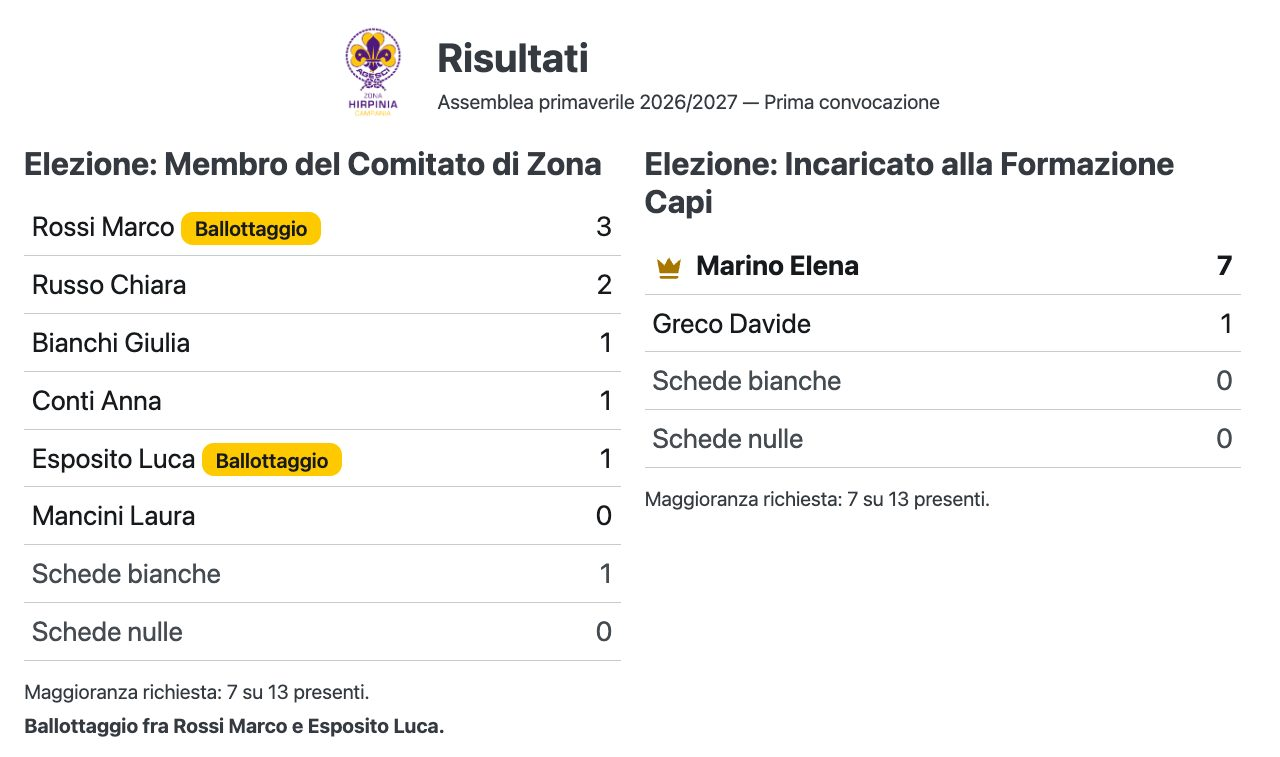
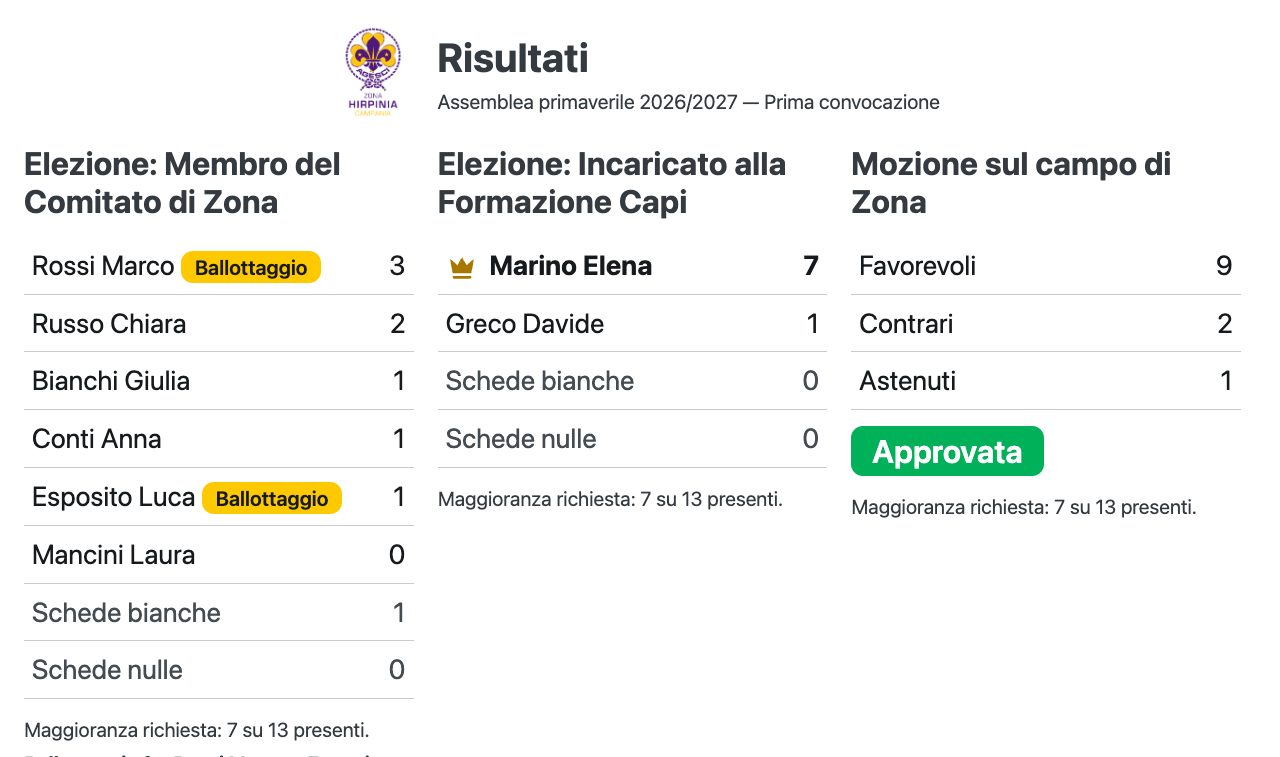
Proiettore: risultati anche delle votazioni non elettive; revoca con schede nulle
Dall'elenco delle votazioni si proietta qualsiasi votazione chiusa, non più
solo elezioni e ballottaggi: per le votazioni sì/no favorevoli, contrari,
astenuti, maggioranza richiesta ed esito (con l'esito palese solo «Approvata a
voto palese», senza numeri). Anche la revoca: segreto è il voto, non il
risultato.

Nella revoca su carta si registrano anche le schede nulle, e le schede bianche
contano come astenuti («Astenuti e schede bianche»). Le voci per canale
vengono da un solo punto, votazioni.voci(), usato da form e
registra_risultati(); la frase dell'esito e il verbale riportano le nulle.

diff --git a/templates/assemblee/proiettore_risultati.html b/templates/assemblee/proiettore_risultati.html
@@ -1,7 +1,9 @@
 {% load static bootstrap_icons %}
 {% comment %}
-Risultati di una o più elezioni chiuse da proiettare in sala, una per colonna
-(al massimo tre), con una corona accanto agli eletti. Pagina statica, senza
+Risultati di una o più votazioni chiuse da proiettare in sala, una per colonna
+(al massimo tre): elezioni e ballottaggi con una corona accanto agli eletti,
+le altre (revoca compresa: segreto è il voto, non il risultato) con
+favorevoli, contrari, astenuti ed esito; la revoca anche con le schede nulle. Pagina statica, senza
 aggiornamento automatico: i risultati sono definitivi. Autonoma come
 assemblee/proiettore.html.
 {% endcomment %}
@@ -27,6 +29,22 @@ assemblee/proiettore.html.
       {% for r in risultati %}
         <section class="{% if risultati|length == 1 %}lg:col-8 mx-auto{% elif risultati|length == 2 %}md:col-6{% else %}lg:col-4{% endif %}">
           <h2 class="fs-2xl mb-5">{{ r.votazione.oggetto }}</h2>
+          {% if not r.elezione %}
+            {% if r.palese %}
+              <p class="fs-xl mb-5">Nessun contrario né astenuto.</p>
+            {% else %}
+              <table class="table fs-xl">
+                <tbody>
+                  <tr><td>Favorevoli</td><td class="text-end">{{ r.favorevoli }}</td></tr>
+                  <tr><td>Contrari</td><td class="text-end">{{ r.contrari }}</td></tr>
+                  <tr><td>{% if r.revoca %}Astenuti e schede bianche{% else %}Astenuti{% endif %}</td><td class="text-end">{{ r.astenuti }}</td></tr>
+                  {% if r.revoca %}<tr><td class="fg-2">Schede nulle</td><td class="text-end fg-2">{{ r.nulle }}</td></tr>{% endif %}
+                </tbody>
+              </table>
+            {% endif %}
+            <p class="mb-5"><span class="badge {% if r.approvata %}theme-success{% else %}theme-danger{% endif %} fs-2xl">{% if r.approvata %}Approvata{% if r.palese %} a voto palese{% endif %}{% else %}Respinta{% endif %}</span></p>
+            <p class="fs-lg mb-1">Maggioranza richiesta: {{ r.soglia }} su {{ r.base }} {{ r.base_nome }}.</p>
+          {% else %}
           <table class="table fs-xl">
             <tbody>
               {% for c in r.candidati %}
@@ -41,6 +59,7 @@ assemblee/proiettore.html.
           </table>
           <p class="fs-lg mb-1">Maggioranza richiesta: {{ r.soglia }} su {{ r.base }} {{ r.base_nome }}.</p>
           {% if r.vacanti %}<p class="fs-lg fw-bold mb-0">{{ r.vacanti|capfirst }}.</p>{% endif %}
+          {% endif %}
         </section>
       {% endfor %}
     </div>

diff --git a/templates/assemblee/votazioni.html b/templates/assemblee/votazioni.html
@@ -55,7 +55,7 @@
   {% if proiettabili %}
     <form method="get" action="{% url 'assemblee:proiettore_risultati' assemblea.pk seduta.pk %}" target="_blank" id="form-proietta" class="d-flex flex-wrap align-items-center gap-3 mb-5">
       <button type="submit" class="btn-outline theme-primary">{% bs_icon "display" %} Proietta i risultati</button>
-      <span class="fg-2">Spunta fino a {{ max_proiettati }} elezioni chiuse: si aprono in una pagina da proiettare, una per colonna.</span>
+      <span class="fg-2">Spunta fino a {{ max_proiettati }} votazioni chiuse: si aprono in una pagina da proiettare, una per colonna.</span>
     </form>
   {% endif %}
 

diff --git a/apps/assemblee/tests/test_votazioni.py b/apps/assemblee/tests/test_votazioni.py
@@ -9,6 +9,7 @@ from django.core.exceptions import PermissionDenied, ValidationError
 from apps.accounts.models import Ruolo, StatoUtente, TipoUtente, Utente
 from apps.anagrafica.models import Capo, CensimentoCapo
 from apps.assemblee import elenco, sedute, votazioni
+from apps.assemblee.forms import form_risultati
 from apps.assemblee.models import (
     Assemblea,
     CanaleVoto,
@@ -316,16 +317,59 @@ class TestVerificaDelQuorum:
         assert _palese(v, segreteria, 2, 2, 0).soglia == 3
 
 
+class TestRevoca:
+    def test_schede_nulle_solo_su_carta(self, seduta, segreteria):
+        v = _votazione(seduta, TipoVotazione.REVOCA)
+        assert votazioni.voci(v, CanaleVoto.CARTA) == (
+            "favorevoli",
+            "contrari",
+            "astenuti",
+            "nulle",
+        )
+        assert votazioni.voci(v, CanaleVoto.APP) == ("favorevoli", "contrari", "astenuti")
+        campi = form_risultati(v, votazioni.canali(v)).fields
+        assert "CARTA_nulle" in campi and "APP_nulle" not in campi
+        assert campi["CARTA_astenuti"].label == "Astenuti e schede bianche (carta)"
+        votazioni.registra_risultati(
+            v,
+            segreteria,
+            per_canale={
+                CanaleVoto.APP.value: {"favorevoli": 60, "nulle": 9},
+                CanaleVoto.CARTA.value: {"favorevoli": 40, "astenuti": 5, "nulle": 3},
+            },
+        )
+        totali = votazioni.totali(v)
+        # In app non ci sono schede nulle: quelle passate si ignorano.
+        assert (totali.favorevoli, totali.astenuti, totali.nulle) == (100, 5, 3)
+        assert "3 schede nulle" in votazioni.frase_esito(v)
+
+    def test_le_nulle_contano_nei_voti_espressi(self, seduta, segreteria):
+        v = _votazione(seduta, TipoVotazione.REVOCA, presenti=10)
+        with pytest.raises(ValidationError, match="superano i presenti"):
+            votazioni.registra_risultati(
+                v,
+                segreteria,
+                per_canale={CanaleVoto.CARTA.value: {"favorevoli": 8, "nulle": 3}},
+            )
+
+
 class TestRisultatiDaProiettare:
-    def test_solo_elezioni_chiuse_al_massimo_tre(self, seduta, segreteria):
+    def test_solo_chiuse_al_massimo_tre(self, seduta, segreteria):
         chiuse = []
-        for nome in ("Anna", "Bruno", "Carla", "Dario"):
+        for nome in ("Anna", "Bruno"):
             v = _votazione(seduta, TipoVotazione.ELEZIONE, candidati=[nome, "Zeta"])
             _elezione(v, segreteria, {nome: 70, "Zeta": 40})
             chiuse.append(v)
         aperta = _votazione(seduta, TipoVotazione.ELEZIONE, candidati=["Ugo"])
-        mozione = _palese(_votazione(seduta, TipoVotazione.MOZIONE), segreteria, 70, 10, 0)
-        assert mozione.approvata
+        mozione = _votazione(seduta, TipoVotazione.MOZIONE)
+        assert _palese(mozione, segreteria, 70, 10, 0).approvata
+        chiuse.append(mozione)
+        # Segreto è il voto, non il risultato: anche la revoca si proietta.
+        revoca = _votazione(seduta, TipoVotazione.REVOCA)
+        votazioni.registra_risultati(
+            revoca, segreteria, per_canale={CanaleVoto.CARTA.value: {"favorevoli": 100}}
+        )
+        chiuse.append(revoca)
         assert votazioni.proiettabili(seduta) == chiuse
         assert votazioni.da_proiettare(seduta, [chiuse[0].pk, chiuse[2].pk]) == [
             chiuse[0],
@@ -353,6 +397,37 @@ class TestRisultatiDaProiettare:
         _elezione(eletta, segreteria, {"Dora": 70, "Ezio": 40})
         pagina = client.get(f"{base}/proiettore/risultati/?v={v.pk}&v={eletta.pk}").content.decode()
         assert pagina.count('id="mdi-crown"') == 1 and "Dora" in pagina
+        # Votazioni per alzata di mano: numeri ed esito, con l'esito palese solo l'esito.
+        respinta = _votazione(seduta, TipoVotazione.MOZIONE)
+        _palese(respinta, segreteria, 40, 50, 7)
+        palese = _votazione(seduta, TipoVotazione.RACCOMANDAZIONE)
+        votazioni.registra_palese(palese, segreteria)
+        assert votazioni.risultati_per_proiettore(respinta)["contrari"] == 50
+        pagina = client.get(
+            f"{base}/proiettore/risultati/?v={respinta.pk}&v={palese.pk}"
+        ).content.decode()
+        assert "Respinta" in pagina and "Approvata a voto palese" in pagina
+        assert ">50<" in pagina and ">40<" in pagina and ">7<" in pagina
+        assert "Maggioranza richiesta: 61 su 120 presenti" in pagina
+        assert ">120<" not in pagina
+        revoca = _votazione(seduta, TipoVotazione.REVOCA)
+        votazioni.registra_risultati(
+            revoca,
+            segreteria,
+            per_canale={
+                CanaleVoto.APP.value: {"favorevoli": 80, "contrari": 5},
+                CanaleVoto.CARTA.value: {
+                    "favorevoli": 15,
+                    "contrari": 3,
+                    "astenuti": 2,
+                    "nulle": 4,
+                },
+            },
+        )
+        pagina = client.get(f"{base}/proiettore/risultati/?v={revoca.pk}").content.decode()
+        assert ">95<" in pagina and ">8<" in pagina and "Approvata" in pagina
+        assert "Astenuti e schede bianche" in pagina and ">4<" in pagina
+        assert "Maggioranza richiesta: 94 su 186 aventi diritto" in pagina
         # Una votazione non proiettabile riporta all'elenco.
         assert client.get(f"{base}/proiettore/risultati/?v=999999").status_code == 302
 

diff --git a/apps/assemblee/votazioni.py b/apps/assemblee/votazioni.py
@@ -59,6 +59,18 @@ def canali(votazione: Votazione) -> list[str]:
     return [CanaleVoto.PALESE]
 
 
+def voci(votazione: Votazione, canale: str) -> tuple[str, ...]:
+    """Voci dei risultati di un canale, per il form e per `registra_risultati()`.
+    Nelle elezioni schede bianche e nulle (i voti stanno sui candidati); nelle
+    votazioni sì/no favorevoli, contrari e astenuti, più le schede nulle nella
+    revoca su carta. Nella revoca le schede bianche contano come astenuti."""
+    if votazione.tipo in (TipoVotazione.ELEZIONE, TipoVotazione.BALLOTTAGGIO):
+        return ("bianche", "nulle")
+    if votazione.tipo == TipoVotazione.REVOCA and canale == CanaleVoto.CARTA:
+        return ("favorevoli", "contrari", "astenuti", "nulle")
+    return ("favorevoli", "contrari", "astenuti")
+
+
 @dataclass(frozen=True)
 class Totali:
     favorevoli: int = 0
@@ -378,10 +390,7 @@ def registra_risultati(
         dati = per_canale.get(canale, {})
         if dall_urna is not None and canale == CanaleVoto.APP:
             dati = {"bianche": dall_urna.bianche, "nulle": dall_urna.nulle}
-        if elezione:
-            dati = {"bianche": dati.get("bianche", 0), "nulle": dati.get("nulle", 0)}
-        else:
-            dati = {k: dati.get(k, 0) for k in ("favorevoli", "contrari", "astenuti")}
+        dati = {k: dati.get(k, 0) for k in voci(votazione, canale)}
         if any(v < 0 for v in dati.values()):
             raise ValidationError("I voti non possono essere negativi.")
         RisultatoCanale.objects.create(votazione=votazione, canale=canale, **dati)
@@ -526,6 +535,7 @@ def frase_esito(votazione: Votazione) -> str:
                 _voti(t.contrari, "contrario", "contrari"),
                 _voti(t.astenuti, "astenuto", "astenuti"),
             ]
+            + ([_voti(t.nulle, "scheda nulla", "schede nulle")] if t.nulle else [])
         )
         verbo = "approvata" if e.approvata else "respinta"
         return f"{verbo.capitalize()} con {dettaglio} ({base})."
@@ -558,41 +568,56 @@ def _frase_vacanti(e: Esito) -> str:
 
 # --- Risultati da proiettare --------------------------------------------------------
 #
-# Vista proiettore dei risultati: elezioni e ballottaggi chiusi della seduta,
-# al massimo tre affiancati (una colonna ciascuno). Esito e soglie restano in
-# esito(): qui solo la forma dei dati per la pagina.
+# Vista proiettore dei risultati: votazioni chiuse della seduta, al massimo tre
+# affiancate (una colonna ciascuna). Anche quelle a scrutinio segreto: segreto
+# è il voto, non il risultato. Esito e soglie restano in esito(): qui solo la
+# forma dei dati per la pagina.
 
 MAX_RISULTATI_PROIETTATI = 3
-TIPI_PROIETTABILI = (TipoVotazione.ELEZIONE, TipoVotazione.BALLOTTAGGIO)
 
 
 def proiettabili(seduta: Seduta) -> list[Votazione]:
-    return list(
-        seduta.votazioni.filter(chiusa_il__isnull=False, tipo__in=TIPI_PROIETTABILI).order_by(
-            "aperta_il"
-        )
-    )
+    return list(seduta.votazioni.filter(chiusa_il__isnull=False).order_by("aperta_il"))
 
 
 def da_proiettare(seduta: Seduta, scelte: Iterable[int]) -> list[Votazione]:
     scelte = set(scelte)
     votazioni = [v for v in proiettabili(seduta) if v.pk in scelte]
     if not votazioni or len(votazioni) != len(scelte):
-        raise ValidationError("Scegli da una a tre elezioni chiuse di questa seduta.")
+        raise ValidationError("Scegli da una a tre votazioni chiuse di questa seduta.")
     if len(votazioni) > MAX_RISULTATI_PROIETTATI:
         raise ValidationError(
-            f"Si proiettano al massimo {MAX_RISULTATI_PROIETTATI} elezioni alla volta."
+            f"Si proiettano al massimo {MAX_RISULTATI_PROIETTATI} votazioni alla volta."
         )
     return votazioni
 
 
 def risultati_per_proiettore(votazione: Votazione) -> dict:
     e = esito(votazione)
+    if e.approvata is not None:
+        # Votazioni sì/no, revoca compresa. Con l'esito palese i favorevoli non
+        # si contano (registra_palese()), quindi niente numeri, come in
+        # frase_esito().
+        return {
+            "votazione": votazione,
+            "elezione": False,
+            "approvata": e.approvata,
+            "palese": votazione.esito_palese,
+            "favorevoli": e.totali.favorevoli,
+            "contrari": e.totali.contrari,
+            "astenuti": e.totali.astenuti,
+            "nulle": e.totali.nulle,
+            "revoca": votazione.tipo == TipoVotazione.REVOCA,
+            "base": e.base,
+            "base_nome": e.base_nome,
+            "soglia": e.soglia,
+        }
     eletti = {c.pk for c in e.eletti}
     ballottaggio = {c.pk for c in e.ballottaggio_proposto}
     candidati = sorted(votazione.candidati.all(), key=lambda c: (-c.voti, c.nome))
     return {
         "votazione": votazione,
+        "elezione": True,
         "candidati": [
             {
                 "nome": c.nome,

diff --git a/apps/assemblee/forms.py b/apps/assemblee/forms.py
@@ -21,6 +21,7 @@ from .models import (
     VariazioneRappresentante,
     VerbaleSeduta,
 )
+from .votazioni import voci as voci_risultati
 
 
 class AssembleaCreaForm(forms.ModelForm):
@@ -411,10 +412,16 @@ class VotazioneForm(forms.Form):
         return dati
 
 
+# Nella revoca le schede bianche contano come astenuti: l'etichetta lo dice.
+ETICHETTE_VOCI = {
+    (TipoVotazione.REVOCA, "astenuti"): "Astenuti e schede bianche",
+    (TipoVotazione.REVOCA, "nulle"): "Schede nulle",
+}
+
+
 def form_risultati(votazione, canali_voto: list[str], data=None) -> forms.Form:
-    """Form dei risultati costruito sulla votazione: favorevoli/contrari/
-    astenuti per canale nelle votazioni sì/no; voti per candidato più schede
-    bianche e nulle nelle elezioni."""
+    """Form dei risultati costruito sulla votazione: voti per candidato nelle
+    elezioni, poi per canale le voci di `votazioni.voci()`."""
     campi: dict[str, forms.Field] = {}
     elezione = votazione.tipo in (TipoVotazione.ELEZIONE, TipoVotazione.BALLOTTAGGIO)
     etichette = dict(CanaleVoto.choices)
@@ -429,10 +436,10 @@ def form_risultati(votazione, canali_voto: list[str], data=None) -> forms.Form:
                     initial=0,
                 )
     for canale in canali_voto:
-        voci = ("bianche", "nulle") if elezione else ("favorevoli", "contrari", "astenuti")
-        for voce in voci:
+        for voce in voci_risultati(votazione, canale):
+            nome = ETICHETTE_VOCI.get((votazione.tipo, voce), voce.capitalize())
             campi[f"{canale}_{voce}"] = forms.IntegerField(
-                label=f"{voce.capitalize()} ({etichette[canale].lower()})", min_value=0, initial=0
+                label=f"{nome} ({etichette[canale].lower()})", min_value=0, initial=0
             )
     classe = type("RisultatiForm", (forms.Form,), campi)
     return classe(data)

diff --git a/docs-manuali/test_schermate.py b/docs-manuali/test_schermate.py
@@ -34,6 +34,7 @@ from apps.assemblee.models import (
     Seduta,
     SistemaVoto,
     TipoAssemblea,
+    TipoVotazione,
 )
 from apps.organizzazione.models import Gruppo
 from apps.voto import codici, scrutinio, urna
@@ -409,7 +410,19 @@ def test_schermate(live_server, browser, settings):
             for c in elezione_foca.candidati.all()
         },
     )
-    f.apri(f"/assemblee/{pk}/sedute/{spk}/proiettore/risultati/?v={vpk}&v={elezione_foca.pk}")
+    # Accanto alle elezioni, una mozione per alzata di mano.
+    mozione = votazioni.apri_votazione(
+        seduta, segreteria, tipo=TipoVotazione.MOZIONE, oggetto="Mozione sul campo di Zona"
+    )
+    votazioni.registra_risultati(
+        mozione,
+        segreteria,
+        per_canale={CanaleVoto.PALESE.value: {"favorevoli": 9, "contrari": 2, "astenuti": 1}},
+    )
+    f.apri(
+        f"/assemblee/{pk}/sedute/{spk}/proiettore/risultati/"
+        f"?v={vpk}&v={elezione_foca.pk}&v={mozione.pk}"
+    )
     f.scatta("gestione", "proiettore-risultati", intera=False)
     f.apri(f"/assemblee/{pk}/sedute/{spk}/verbale/")
     f.scatta("gestione", "verbale")

diff --git a/docs-manuali/gestione/votazioni.md b/docs-manuali/gestione/votazioni.md
@@ -61,6 +61,10 @@ prima i contrari, poi gli astenuti: se non ce ne sono, premi **Palese**. La vota
 approvata senza contare i favorevoli e l'esito, anche nel verbale, è «Approvata a voto
 palese».
 
+Nella **revoca di un mandato**, a scrutinio segreto, per la carta si inseriscono
+favorevoli, contrari, **astenuti e schede bianche** (le schede bianche contano come
+astenuti) e **schede nulle**; con il voto di Catello la revoca si vota solo su carta.
+
 ![Esito della votazione](img/votazione-esito.jpg)
 
 Il **punto all'ordine del giorno** di una votazione si cambia dalla sua pagina in
@@ -69,11 +73,15 @@ premi **Collega**. Serve al verbale, non cambia voti né maggioranze.
 
 ## Proiettare i risultati
 
-Per mostrare in sala i risultati delle elezioni, nell'elenco delle **Votazioni** spunta
-fino a tre elezioni o ballottaggi già chiusi e premi **Proietta i risultati**: si apre una
-pagina da proiettare, una elezione per colonna, con i voti di ogni candidato, una corona
+Per mostrare in sala i risultati, nell'elenco delle **Votazioni** spunta fino a tre
+votazioni già chiuse e premi **Proietta i risultati**: si apre una pagina da proiettare,
+una votazione per colonna. Per le elezioni ci sono i voti di ogni candidato, una corona
 accanto agli eletti, schede bianche e nulle, maggioranza richiesta ed eventuale
-ballottaggio o posto vacante. I risultati sono definitivi: la pagina non si aggiorna.
+ballottaggio o posto vacante; per le altre votazioni, revoca di un mandato compresa
+(segreto è il voto, non il risultato), favorevoli, contrari, astenuti (per la revoca
+anche schede nulle), maggioranza richiesta ed esito («Approvata» o «Respinta»; con
+l'esito palese solo «Approvata a voto palese», senza numeri). I risultati sono
+definitivi: la pagina non si aggiorna.
 
 ![Risultati da proiettare](img/proiettore-risultati.jpg)
 

diff --git a/docs/Catello_Progettazione.md b/docs/Catello_Progettazione.md
@@ -1428,7 +1428,8 @@ d'ordine e nuovi punti all'OdG si votano per alzata di mano: un solo conteggio d
 favorevoli, contrari e astenuti, oppure l'esito **palese** (si chiedono prima i contrari, poi
 gli astenuti: se non ce ne sono è approvata senza contare; nei totali i favorevoli sono i
 presenti della votazione e il verbale dice «approvata a voto palese»). Elezioni e revoca sono a scrutinio segreto, con app e
-carta separate (nelle elezioni anche schede bianche e nulle). Un'elezione è una votazione
+carta separate (nelle elezioni anche schede bianche e nulle; nella revoca, su carta,
+anche le schede nulle, mentre le bianche contano come astenuti — decisione del 2026-11-11). Un'elezione è una votazione
 per incarico con N posti: eletti i candidati sopra soglia in ordine di voti; parità
 sull'ultimo posto o posti scoperti → ballottaggio fra i due più votati non eletti, un solo
 turno; senza maggioranza nemmeno al ballottaggio, il posto resta vacante.
